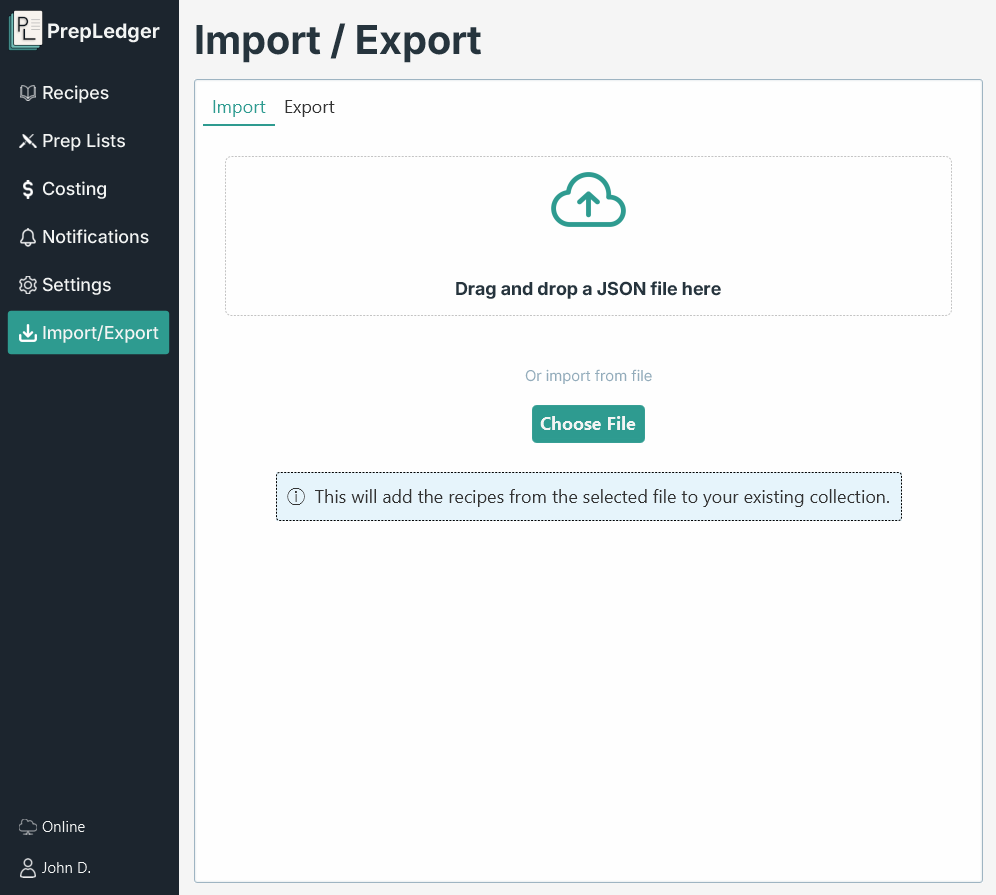
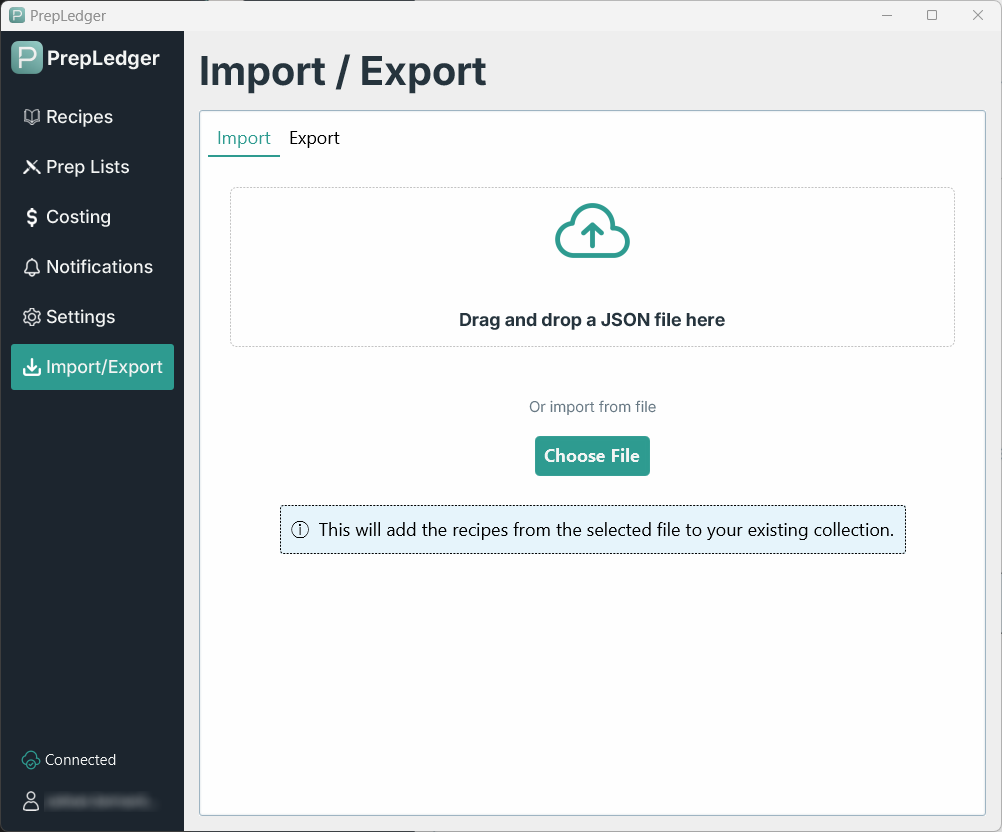
updated pictures

diff --git a/downloads.html b/downloads.html
@@ -35,7 +35,7 @@
                 </a>
 
                 <p class="version">
-                    Version 0.1.0 · Windows 10 / 11
+                    Version 0.1.2 · Windows 10 / 11
                 </p>
 
             </div>
@@ -52,7 +52,7 @@
 
                         <ol>
                             <li>Download the installer above.</li>
-                            <li>Run <strong>PrepLedger-0.1.0.exe</strong>.</li>
+                            <li>Run <strong>PrepLedger-0.1.2.exe</strong>.</li>
                             <li>Launch PrepLedger from the Start Menu or desktop.</li>
                             <li>To remove: Use Windows "Add or Remove Programs" feature.</li>
                         </ol>

diff --git a/index.html b/index.html
@@ -21,7 +21,7 @@
             <div class="container hero-content">
 
                 <div class="hero-text">
-                    <p class="eyebrow">PREPLEDGER 0.1.x BETA</p>
+                    <p class="eyebrow">PREPLEDGER 0.1.2 BETA</p>
 
                     <h1>
                         Your recipes.<br>
@@ -47,7 +47,7 @@
 
                     <div class="hero-actions">
                         <a href="#download" class="button primary">
-                            Download PrepLedger v0.1.0 BETA
+                            Download PrepLedger v0.1.2 BETA
                         </a>
 
                         <a href="features.html" class="button secondary">

diff --git a/features.html b/features.html
@@ -156,7 +156,7 @@
                 </p>
 
                 <a href="downloads.html" class="button primary">
-                    Download PrepLedger v0.1.0 BETA
+                    Download PrepLedger v0.1.2 BETA
                 </a>
 
             </div>
